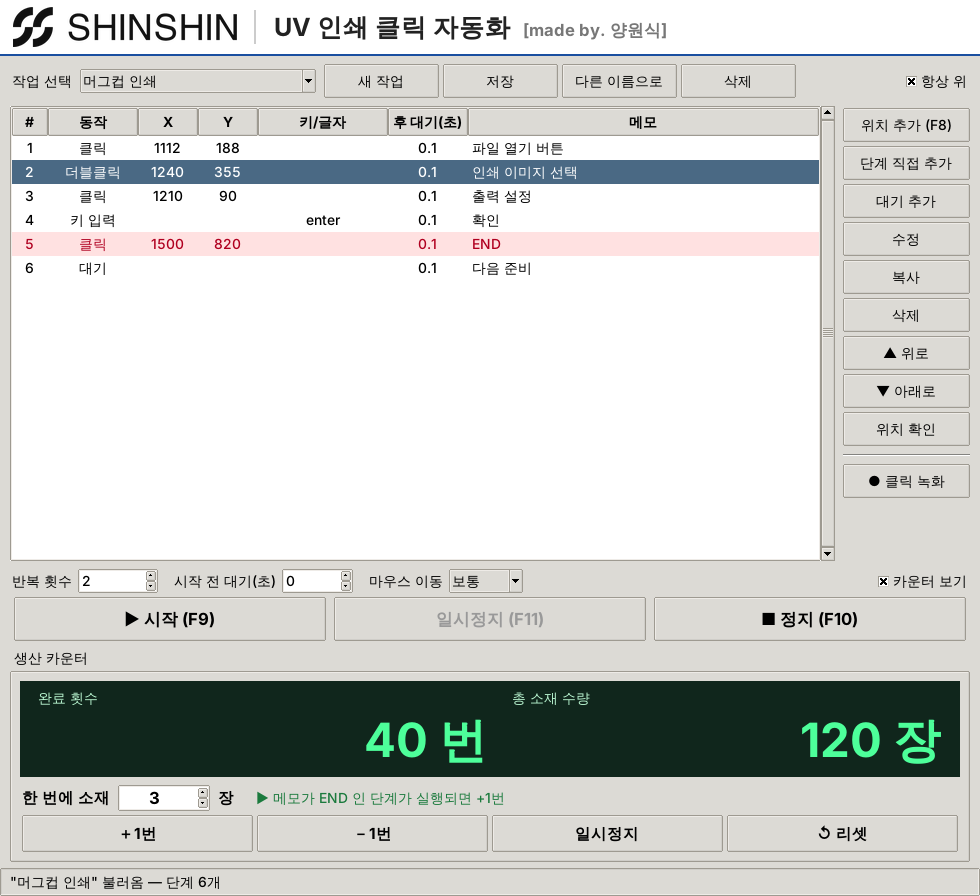
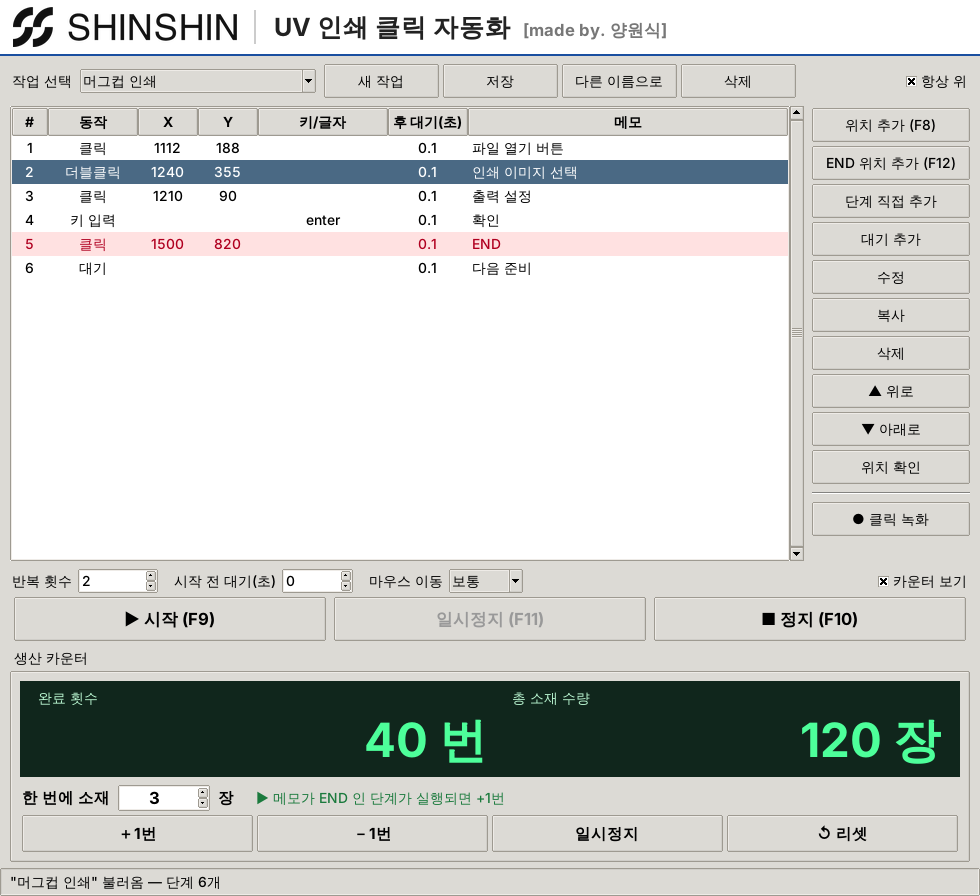
Add F12 hotkey to add an END click step (or mark last recorded click END)
Claude-Session: https://claude.ai/code/session_01HgvnrPN9frqDVCJ1qnZ6b3

Changed region(s): [[0.7959, 0.125, 1.0, 0.625], [0.6122, 0.125, 0.6735, 0.1562]]

diff --git a/uv-click-macro/macro_app.py b/uv-click-macro/macro_app.py
@@ -9,6 +9,7 @@ UV 인쇄기 클릭 자동화 (클릭 매크로)
 
 단축키 (다른 프로그램이 앞에 있어도 동작)
   F8  : 지금 마우스가 있는 위치를 '클릭' 단계로 추가
+  F12 : 지금 마우스 위치를 END 클릭 단계로 추가 (녹화 중이면 방금 클릭을 END 로)
   F9  : 시작
   F10 : 정지 (녹화 중이면 녹화 종료)
   ESC : 실행 중일 때 정지
@@ -207,7 +208,7 @@ class StepDialog(tk.Toplevel):
         self.memo = tk.StringVar(value=self.step["memo"])
         ttk.Entry(frm, textvariable=self.memo, width=28).grid(
             row=6, column=1, columnspan=2, sticky="w", **pad)
-        ttk.Label(frm, text="※ 메모에 END 라고 적으면 이 단계에서 카운터 +1번",
+        ttk.Label(frm, text="※ 메모에 END 라고 적으면 이 단계에서 카운터 +1번 (F12 로 추가해도 END)",
                   foreground="#b00020").grid(row=7, column=1, columnspan=2, sticky="w", padx=6)
 
         btns = ttk.Frame(frm)
@@ -375,6 +376,7 @@ class MacroApp:
         self.tree.pack(side="left", fill="both", expand=True)
         for text, cmd in (
             ("위치 추가 (F8)", self._add_current_position),
+            ("END 위치 추가 (F12)", lambda: self._add_current_position(end=True)),
             ("단계 직접 추가", self._add_step),
             ("대기 추가", lambda: self._insert_step(new_step("wait", delay=1.0, memo="기다리기"))),
             ("수정", self._edit_step),
@@ -645,14 +647,23 @@ class MacroApp:
         self._refresh_tree(select=[idx])
 
     # ------------------------------------------------------------ 단계 편집
-    def _add_current_position(self):
+    def _add_current_position(self, end=False):
         if self.running:
             return
-        x, y = pyautogui.position()
         if self.recording:
+            if end and self.macro["steps"]:
+                # 녹화 중 F12 → 방금 녹화한 클릭을 END 로 표시
+                self.macro["steps"][-1]["memo"] = "END"
+                self._mark_dirty()
+                self._refresh_tree(select=[len(self.macro["steps"]) - 1])
+                self.status.set("녹화 중… 방금 클릭을 END 로 표시했습니다. 끝나면 F10")
             return
-        self._insert_step(new_step("click", x, y, delay=0.5))
-        self.status.set(f"클릭 위치 추가: ({x}, {y})  — 메모를 적어두면 나중에 알아보기 쉽습니다.")
+        x, y = pyautogui.position()
+        self._insert_step(new_step("click", x, y, delay=0.5, memo="END" if end else ""))
+        if end:
+            self.status.set(f"END 클릭 위치 추가: ({x}, {y})  — 이 단계가 실행되면 카운터 +1번")
+        else:
+            self.status.set(f"클릭 위치 추가: ({x}, {y})  — 메모를 적어두면 나중에 알아보기 쉽습니다.")
 
     def _add_step(self):
         x, y = pyautogui.position()
@@ -831,6 +842,8 @@ class MacroApp:
                 return
             if key == keyboard.Key.f8:
                 self.events.put(("hotkey", "add"))
+            elif key == keyboard.Key.f12:
+                self.events.put(("hotkey", "add_end"))
             elif key == keyboard.Key.f9:
                 self.events.put(("hotkey", "start"))
             elif key == keyboard.Key.f10:
@@ -852,6 +865,8 @@ class MacroApp:
                 if ev == "hotkey":
                     if arg == "add":
                         self._add_current_position()
+                    elif arg == "add_end":
+                        self._add_current_position(end=True)
                     elif arg == "start":
                         self.start()
                     elif arg == "pause":
